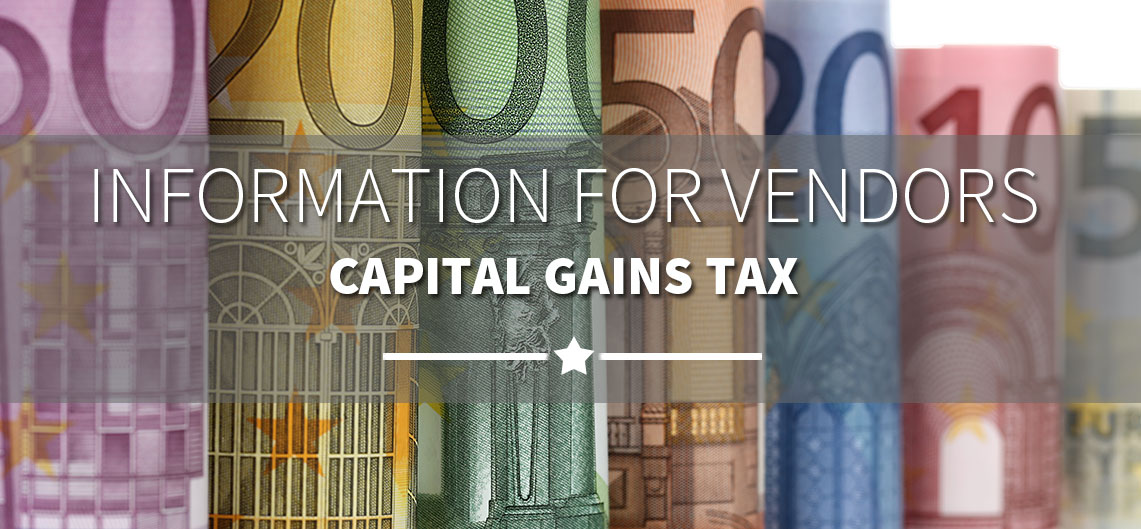
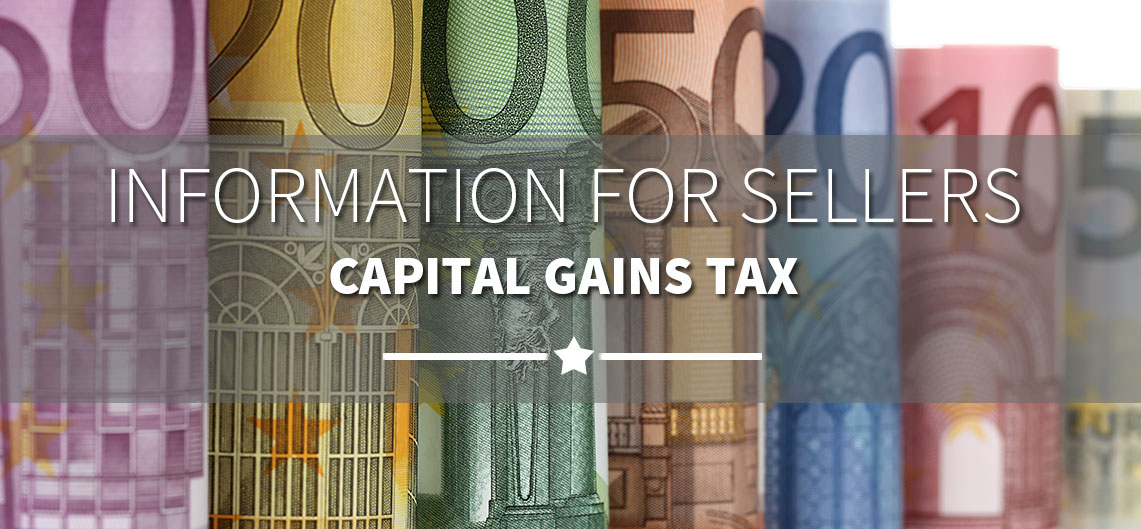
Leggett Phase 2 final

Changed region(s): [[0.0613, 0.3025, 0.9202, 0.4537]]

diff --git a/emedia/Legget/Site/experts-tip.html b/emedia/Legget/Site/experts-tip.html
@@ -88,32 +88,31 @@
 						<li class="active">Top Tips</li>
 					</ol>
 
-					<h1 class="blog-title">Information for Vendors:<span>Top tips from the experts</span></h1>
+					<h1 class="blog-title">Information for Sellers:<span>Top tips from the experts</span></h1>
 
 					<blockquote>
 	              		<p>Here at Leggett Immobilier, we have over two decades of experience selling houses in France.  To help you to sell yours, we have pooled our knowledge to pass on our top 10 tips for selling your French property....</p>
 		            </blockquote>
 					
 					<p><span class="lightorange-bold">1.</span>  Think of inexpensive cosmetic quick-fixes.  Tidy up the front garden and gate.  Paint the front door.  Get rid of scrappy faded plastic children's toys.  Plant up a few pretty pots and put them on windowsills and round the door.  First impressions count and many of our clients base decisions on what they feel when they look at the front of a house.</p>
-
-					<p><span class="lightorange-bold">2.  </span>Clean your windows and brighten up!  Beautiful views will go unnoticed and light-filled room can seem gloomy if your windows are grimy.  Most buyers are looking for a light, bright home.  Do whatever you can to stop your house feeling dark.  Take down heavy curtains, paint walls in a light colour if necessary and make the most of your lighting.</p>
-
+					<hr />
+                    <p><span class="lightorange-bold">2.  </span>Clean your windows and brighten up!  Beautiful views will go unnoticed and light-filled room can seem gloomy if your windows are grimy.  Most buyers are looking for a light, bright home.  Do whatever you can to stop your house feeling dark.  Take down heavy curtains, paint walls in a light colour if necessary and make the most of your lighting.</p>
+                    <hr />
 					<p><span class="lightorange-bold">3.  </span>Add greenery to even the smallest courtyard.  It's about making whatever your property has to offer, a lovely version of what it is.  A beautiful little courtyard with creepers and pretty pots is more appealing to many clients than a unkempt garden.</p>
-
+                    <hr />
 					<p><span class="lightorange-bold">4.  </span>Don't let your neighbours let you down.  If their hedge needs trimming, offer to do it when you are doing your own.  Even if your house is beautiful, if next door is a mess it will make it more difficult to sell your property.</p>
-
+                    <hr />
 					<p><span class="lightorange-bold">5.  </span>Tidy up!  This one seems obvious, but de-cluttering and cleaning inside your house will make a huge difference to how people feel about it.  Your house needs to be someone's French dream so make it as special as it can be.</p>
-
+                    <hr />
 					<p><span class="lightorange-bold">6.  </span>Viewing houses is a sensory experience and this stretches beyond just what clients see. Houses that smell musty do not make clients feel comfortable and excited.  It can be particularly difficult with an empty house, but wherever possible make your home smell fresh and welcoming.  Baked bread and freshly brewed coffee are cliches, but they can really work.</p>
-
+                    <hr />
 					<p><span class="lightorange-bold">7.  </span>Control your pets.  Loud barking dogs can make a client feel uneasy – even if the dog is yours and will be moving with you.  Over friendly sheep or goats can mean that clients aren't able to appreciate your beautiful meadow because they're rushing through the gate.  For many clients animals are no problem at all, but it is important to make every client feel comfortable. </p>
-
+                    <hr />
 					<p><span class="lightorange-bold">8.  </span>Get your compulsory diagnostic tests done as soon as possible.  We encourage vendors to have the  Dossier Diagnostic Technique (DDT) undertaken as soon as possible.  If the tests highlight any anomalies, it is much easier for your Leggett Immobilier agent to explain this to a client when they are first interested in your property.  It can be unsettling for a client (and a sale) if these tests uncover an anomaly after an offer has been made. </p>
-
+                    <hr />
 					<p><span class="lightorange-bold">9.  </span>Agree to short notice viewings – or give us a set of keys.  We try as hard as possible not to impose in any way, but many clients are on very brief house hunting trips.  A lot of the sales we make are based on Leggett Immobilier agents proposing properties to clients whilst on the road with them.  If you are able to accommodate short notice viewings, you are more likely to sell your property.</p>
-
+                    <hr />
 					<p><span class="lightorange-bold">10.  </span>Allow us to do our job.  It is best to let your Leggett agent show the clients around your property and be on hand for any questions.  Too many people tramping round a house can make it feel smaller than it is; and too much information can be off-putting to clients.  Leggett agents are trained and experienced at showing properties and are the best people to present your property to clients.</p>
-
 
 				</div> <!-- .col-sm-8 END -->
 

diff --git a/emedia/Legget/Site/capital-tax-gain.html b/emedia/Legget/Site/capital-tax-gain.html
@@ -104,7 +104,7 @@
 
 					<p>If you have any doubt or questions regarding your Capital Gains Tax, book an appointment with your notaire to discuss it.</p>
 
-                    <div class="blog-post block lightgrey">
+                    <div id="capital-tax" class="blog-post block lightgrey">
 						<h2>Tax Exemptions and allowances</h2>
 						<hr />
 						<p>There are several exemptions and allowances based on a variety of factors.  These range from:</p>
@@ -137,12 +137,14 @@
                     <h2><span class="pre-header">Allowable costs and deductibles</span></h2>
                     <p>It is possible to deduct some costs associated with improving a property when calculating Capital Gains Tax. However 'general maintenance' on a property is not deductible so it can be difficult to pin down exactly what is and isn't eligible.  Often this distinction is down to each individual notaire to define. This will also be checked by the French tax authority.  There are, however, some general  rules:</p>
 
-                    <ul>
-                    	<li>DIY work is not eligible for deductions</li>
-						<li>Only work carried out by a (usually) French registered building professional is eligible for deductions</li>
-						<li>You will need to provide invoices for this work and often bank statements showing payments</li>
-						<li>If you have been granted tax relief on an 'improvement' in the past (e.g. on installing energy conservation to your home) you are unlikely to receive tax relief again at this stage </li>
-					</ul>
+                    <blockquote class="small">
+                        <ul>
+                    	    <li>DIY work is not eligible for deductions</li>
+						    <li>Only work carried out by a (usually) French registered building professional is eligible for deductions</li>
+						    <li>You will need to provide invoices for this work and often bank statements showing payments</li>
+						    <li>If you have been granted tax relief on an 'improvement' in the past (e.g. on installing energy conservation to your home) you are unlikely to receive tax relief again at this stage </li>
+					    </ul>
+                    </blockquote>
 
 				</div> <!-- .col-sm-8 END -->
 

diff --git a/emedia/Legget/Site/style/style.css b/emedia/Legget/Site/style/style.css
@@ -194,6 +194,12 @@ header{
 	width:94%;
 }
 
+.container .col-sm-8 hr{
+    border-bottom: none;
+    border-top: 1px solid #bfbfbf;
+    margin: 30px 0;
+}
+
 .menu{
 	padding: 60px 10px 10px 53px;
 	margin-bottom: -10px;
@@ -456,6 +462,11 @@ h2.large{
 	line-height: 30px;
 }
 
+#capital-tax ul li > ul li
+{
+    padding: 8px 0;
+}
+
 .smallprint{
 	text-align: center;
 	font-style: italic;
@@ -624,7 +635,7 @@ h2{
 
 .block ul span{
 	display: inline-block;
-	margin: 5px 0 0 -15px;
+	margin: 8px 0 8px -15px;
 }
 
 .block hr{
@@ -738,7 +749,19 @@ footer .main > p
 .for-sellers blockquote
 {
     border-left: 8px solid #f5a600;
-    color: #505151;
+}
+
+.for-france .breadcrumb li.active{
+	color: #CC0000;
+}
+
+.for-france .blog-title span{
+	color: #CC0000;
+}
+
+.for-france blockquote
+{
+    border-left: 8px solid #CC0000;
 }
 
 #scrollUp {

diff --git a/emedia/Legget/Site/property-selling-guide.html b/emedia/Legget/Site/property-selling-guide.html
@@ -88,7 +88,7 @@
 						<li class="active">A Guide for Sellers</li>
 					</ol>
 
-					<h1 class="blog-title">Information for Vendors: <span>A guide to selling your French property</span></h1>
+					<h1 class="blog-title">Information for Sellers: <span>A guide to selling your French property</span></h1>
 					<blockquote>
 	              		<p>Here at Leggett Immobilier, we have been helping people sell French properties for more than 20 years, so if the time has come to sell yours, we will be happy to help you out.</p>
 		            </blockquote>

diff --git a/emedia/Legget/Site/french-school.html b/emedia/Legget/Site/french-school.html
@@ -79,12 +79,12 @@
 
 			<div class="container">
 
-				<div class="col-sm-8 for-sellers">
+				<div class="col-sm-8 for-france">
 
 					<ol class="breadcrumb">
 						<li><a href="#"><img src="layout/icon-house.png" /></a></li>
 						<li><a href="#">Info</a></li>
-						<li><a href="#">Living in France</a></li>
+						<li><a href="#">About France</a></li>
 						<li class="active">French School System</li>
 					</ol>
 

diff --git a/emedia/Legget/Site/french-healthcare.html b/emedia/Legget/Site/french-healthcare.html
@@ -79,12 +79,12 @@
 
 			<div class="container">
 
-				<div class="col-sm-8 for-sellers">
+				<div class="col-sm-8 for-france">
 
 					<ol class="breadcrumb">
 						<li><a href="#"><img src="layout/icon-house.png" /></a></li>
 						<li><a href="#">Info</a></li>
-						<li><a href="#">Living in France</a></li>
+						<li><a href="#">About France</a></li>
 						<li class="active">Healthcare System</li>
 					</ol>
 
